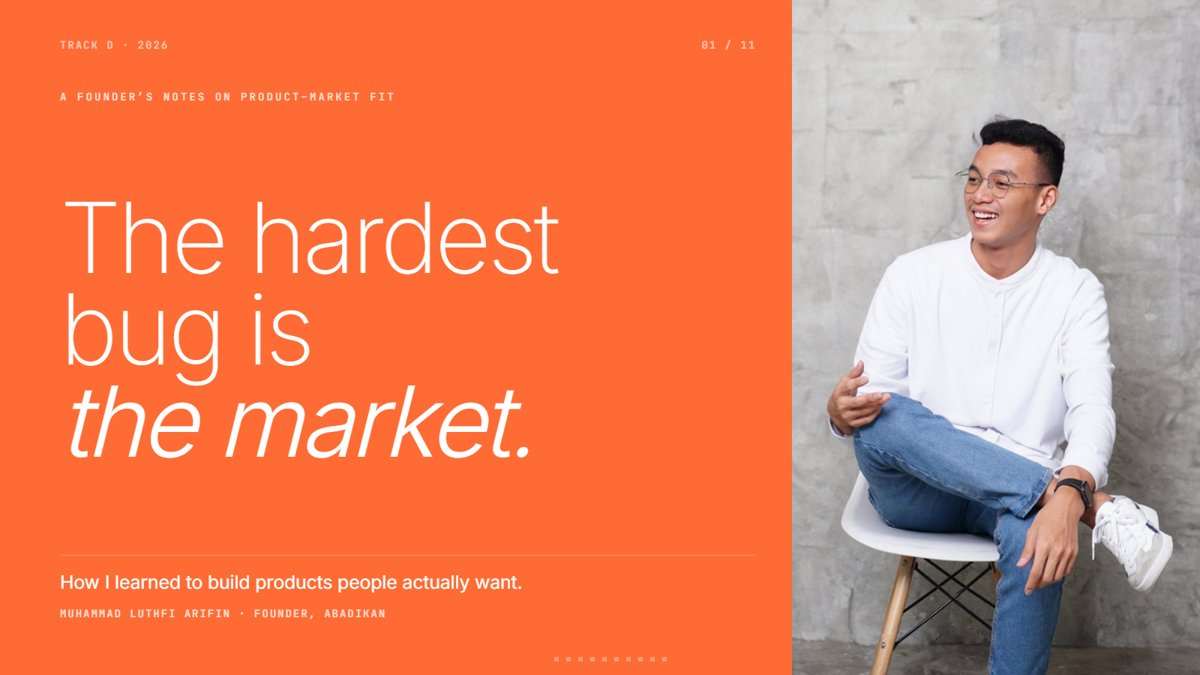
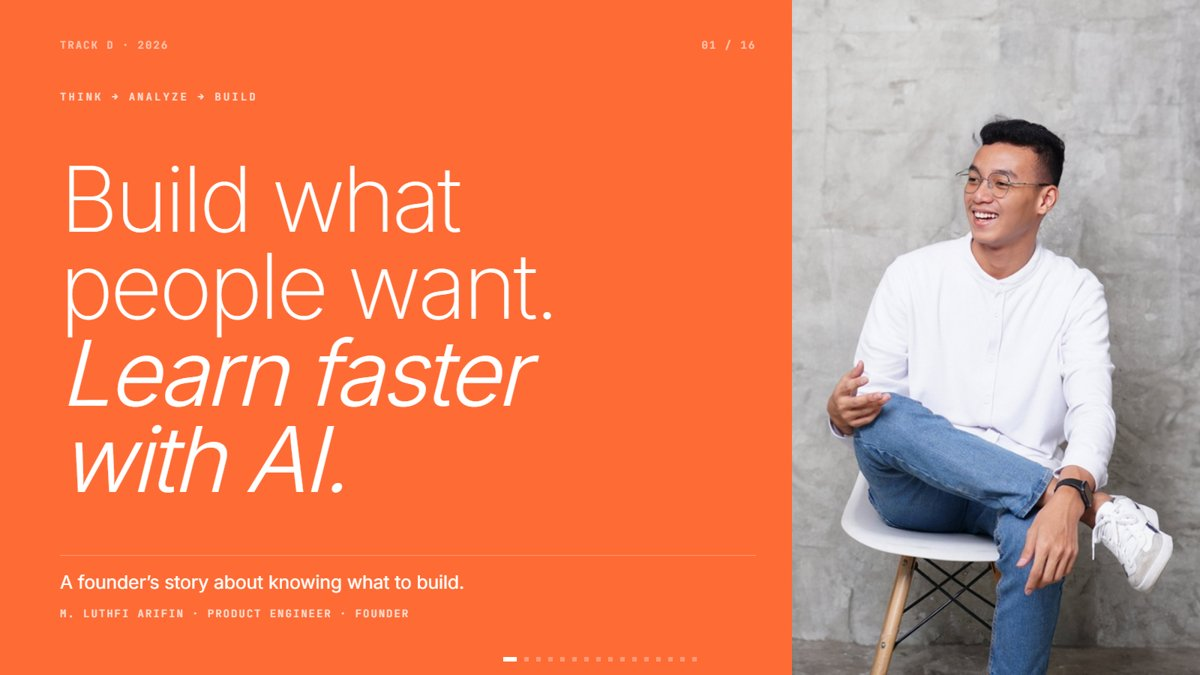
Rename talk to Build What People Want
New slug build-what-people-want: Pages URL, og tags, package name,
QR to laam.my.id/talks/build-what-people-want and a fresh cover.jpg.

diff --git a/index.html b/index.html
@@ -8,8 +8,8 @@
 <meta property="og:type" content="website">
 <meta property="og:title" content="Build What People Want. Learn Faster with AI.">
 <meta property="og:description" content="Don’t build faster. Learn faster. A founder story from WIGO and Abadikan, and how AI shortens the learning loop.">
-<meta property="og:url" content="https://luthfiarifin.github.io/slide-the-hardest-bug-is-the-market/">
-<meta property="og:image" content="https://luthfiarifin.github.io/slide-the-hardest-bug-is-the-market/cover.jpg">
+<meta property="og:url" content="https://luthfiarifin.github.io/slide-build-what-people-want/">
+<meta property="og:image" content="https://luthfiarifin.github.io/slide-build-what-people-want/cover.jpg">
 <meta name="twitter:card" content="summary_large_image">
 <link rel="preconnect" href="https://fonts.googleapis.com">
 <link rel="preconnect" href="https://fonts.gstatic.com" crossorigin>
@@ -1801,10 +1801,10 @@
       </div>
       <div data-anim="qr" class="qa-side">
         <figure class="qa-qr">
-          <img src="images/11-qr-talk.svg" data-image-slot="qa-qr" alt="QR code to laam.my.id/talks/the-hardest-bug-is-the-market: slides and contact">
+          <img src="images/qr-talk.svg" data-image-slot="qa-qr" alt="QR code to laam.my.id/talks/build-what-people-want: slides and contact">
           <figcaption>
             <span class="t-cat">Slides + connect</span>
-            <span class="t-meta">laam.my.id/talks/the-hardest-bug-is-the-market</span>
+            <span class="t-meta">laam.my.id/talks/build-what-people-want</span>
           </figcaption>
         </figure>
       </div>

diff --git a/README.md b/README.md
@@ -4,9 +4,7 @@ A founder talk (Track D, about 10 minutes + Q&A) by Muhammad Luthfi Arifin, Prod
 
 > WIGO taught me how to build. Abadikan taught me what to build. AI helps me learn faster.
 
-(The repo keeps its original slug, `the-hardest-bug-is-the-market`, so the live URL and QR keep working.)
-
-**Live:** https://luthfiarifin.github.io/slide-the-hardest-bug-is-the-market/
+**Live:** https://luthfiarifin.github.io/slide-build-what-people-want/
 
 Part of [luthfiarifin/research](https://github.com/luthfiarifin/research) (linked as a submodule under `99-talks/`) and deployed to GitHub Pages by CI.
 
@@ -35,7 +33,7 @@ Part of [luthfiarifin/research](https://github.com/luthfiarifin/research) (linke
 | 13 | AI where the business is slow (Metabase + Mindi screenshots) | S16 image cards |
 | 14 | AI finds signals. You provide judgment. | S10 split statement |
 | 15 | Don't build faster. Learn faster. (closing) | Split closing |
-| 16 | What are you building? + QR to laam.my.id/talks/the-hardest-bug-is-the-market (+ Morpheus meme) | S12 manifesto + banner |
+| 16 | What are you building? + QR to laam.my.id/talks/build-what-people-want (+ Morpheus meme) | S12 manifesto + banner |
 
 ## Presenting
 
